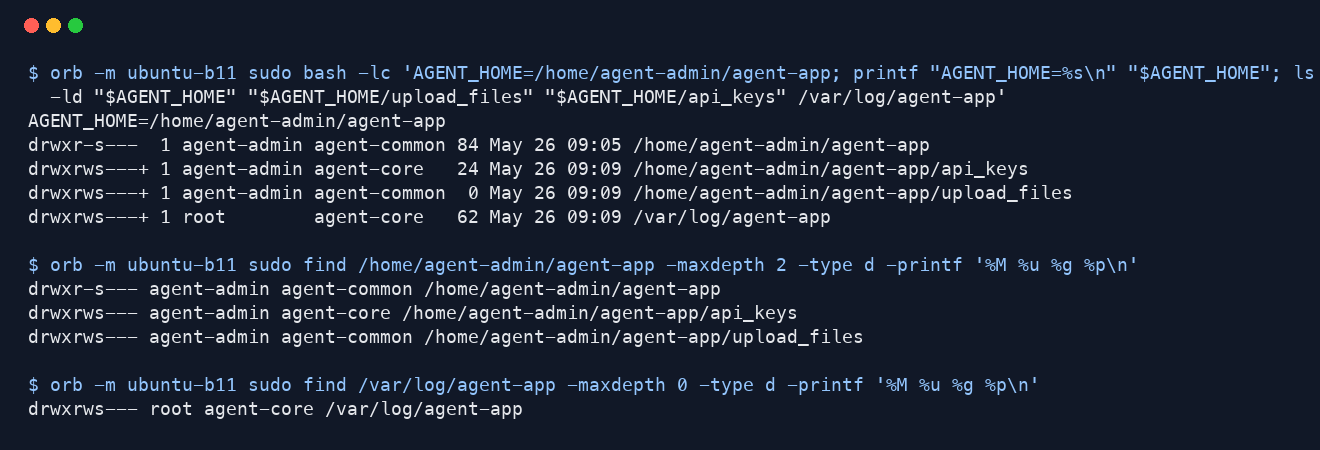
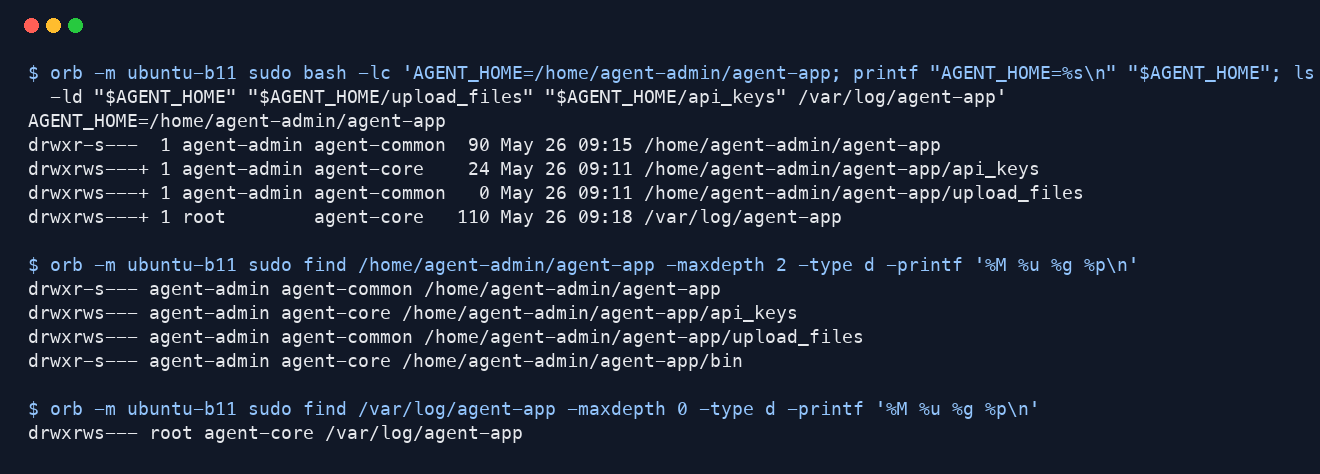
Add monitor script and log rotation evidence

Changed region(s): [[0.0, 0.1244, 0.9939, 0.4978], [0.0, 0.5289, 0.8697, 0.7778], [0.0, 0.84, 0.7765, 0.9333]]

diff --git a/tools/capture_terminal_evidence.py b/tools/capture_terminal_evidence.py
@@ -522,6 +522,119 @@ GROUPS = [
             ),
         ],
     ),
+    (
+        "12_monitor_file_policy_check",
+        [
+            (
+                "orb -m ubuntu-b11 sudo ls -ld /home/agent-admin/agent-app/bin /home/agent-admin/agent-app/bin/monitor.sh",
+                [
+                    "orb",
+                    "-m",
+                    "ubuntu-b11",
+                    "sudo",
+                    "ls",
+                    "-ld",
+                    "/home/agent-admin/agent-app/bin",
+                    "/home/agent-admin/agent-app/bin/monitor.sh",
+                ],
+            ),
+            (
+                "orb -m ubuntu-b11 sudo -u agent-admin test -x /home/agent-admin/agent-app/bin/monitor.sh && echo 'agent-admin can execute monitor.sh'",
+                [
+                    "orb",
+                    "-m",
+                    "ubuntu-b11",
+                    "bash",
+                    "-lc",
+                    "sudo -u agent-admin test -x /home/agent-admin/agent-app/bin/monitor.sh && echo 'agent-admin can execute monitor.sh'",
+                ],
+            ),
+            (
+                "orb -m ubuntu-b11 sudo sed -n '1,45p' /home/agent-admin/agent-app/bin/monitor.sh",
+                [
+                    "orb",
+                    "-m",
+                    "ubuntu-b11",
+                    "sudo",
+                    "sed",
+                    "-n",
+                    "1,45p",
+                    "/home/agent-admin/agent-app/bin/monitor.sh",
+                ],
+            ),
+        ],
+    ),
+    (
+        "13_monitor_execution_check",
+        [
+            (
+                "orb -m ubuntu-b11 sudo -u agent-admin bash -lc '/home/agent-admin/agent-app/bin/monitor.sh'",
+                [
+                    "orb",
+                    "-m",
+                    "ubuntu-b11",
+                    "sudo",
+                    "-u",
+                    "agent-admin",
+                    "bash",
+                    "-lc",
+                    "/home/agent-admin/agent-app/bin/monitor.sh",
+                ],
+            ),
+            (
+                "orb -m ubuntu-b11 sudo tail -n 5 /var/log/agent-app/monitor.log",
+                ["orb", "-m", "ubuntu-b11", "sudo", "tail", "-n", "5", "/var/log/agent-app/monitor.log"],
+            ),
+        ],
+    ),
+    (
+        "14_monitor_logrotate_check",
+        [
+            (
+                "orb -m ubuntu-b11 sudo cat /etc/logrotate.d/agent-app-monitor",
+                ["orb", "-m", "ubuntu-b11", "sudo", "cat", "/etc/logrotate.d/agent-app-monitor"],
+            ),
+            (
+                "orb -m ubuntu-b11 sudo -u agent-admin bash -lc 'for i in 1 2; do /home/agent-admin/agent-app/bin/monitor.sh >/dev/null; done; last=$(tail -n 1 \"$AGENT_LOG_DIR/monitor.log\"); yes \"$last\" | head -n 180000 >> \"$AGENT_LOG_DIR/monitor.log\"; ls -lh \"$AGENT_LOG_DIR\"/monitor.log*'",
+                [
+                    "orb",
+                    "-m",
+                    "ubuntu-b11",
+                    "sudo",
+                    "-u",
+                    "agent-admin",
+                    "bash",
+                    "-lc",
+                    'for i in 1 2; do /home/agent-admin/agent-app/bin/monitor.sh >/dev/null; done; last=$(tail -n 1 "$AGENT_LOG_DIR/monitor.log"); yes "$last" | head -n 180000 >> "$AGENT_LOG_DIR/monitor.log"; ls -lh "$AGENT_LOG_DIR"/monitor.log*',
+                ],
+            ),
+            (
+                "orb -m ubuntu-b11 bash -lc \"sudo logrotate -v /etc/logrotate.d/agent-app-monitor 2>&1 | grep -E 'rotating pattern|log needs rotating|copying|truncating'\"",
+                [
+                    "orb",
+                    "-m",
+                    "ubuntu-b11",
+                    "bash",
+                    "-lc",
+                    "sudo logrotate -v /etc/logrotate.d/agent-app-monitor 2>&1 | grep -E 'rotating pattern|log needs rotating|copying|truncating'",
+                ],
+            ),
+            (
+                "orb -m ubuntu-b11 sudo -u agent-admin bash -lc '/home/agent-admin/agent-app/bin/monitor.sh >/dev/null; ls -lh \"$AGENT_LOG_DIR\"/monitor.log*'",
+                [
+                    "orb",
+                    "-m",
+                    "ubuntu-b11",
+                    "sudo",
+                    "-u",
+                    "agent-admin",
+                    "bash",
+                    "-lc",
+                    '/home/agent-admin/agent-app/bin/monitor.sh >/dev/null; ls -lh "$AGENT_LOG_DIR"/monitor.log*',
+                ],
+            ),
+        ],
+    ),
 ]
 
 

diff --git a/README.md b/README.md
@@ -418,3 +418,75 @@ Boot Sequence, 일반 계정 실행, `15034` 포트 LISTEN 확인:
 원문 증거 로그:
 
 - `evidence/11_agent_run_success_check.txt`
+
+### 4.4 시스템 관제 자동화 스크립트(monitor.sh) 구현
+
+#### 4.4.1 수행 내역
+
+1. 제출용 소스 파일로 저장소 루트에 `monitor.sh`를 작성하였다.
+2. 스크립트 상단에서 `/etc/profile.d/agent-app.sh`를 읽어 cron 환경에서도 `AGENT_HOME`, `AGENT_PORT`, `AGENT_LOG_DIR` 값을 사용할 수 있게 하였다.
+3. 프로세스 Health Check는 `pgrep -u agent-admin -x agent-app`으로 구현하였다.
+4. 앱 프로세스가 없으면 `[ERROR] agent-app process is not running`을 출력하고 `exit 1`로 종료하도록 하였다.
+5. 포트 Health Check는 `ss -tuln`으로 TCP `15034` LISTEN 상태를 확인하도록 구현하였다.
+6. 포트가 LISTEN 상태가 아니면 `[ERROR] TCP 15034 is not LISTEN`을 출력하고 `exit 1`로 종료하도록 하였다.
+7. 방화벽 상태 점검은 UFW 설정 파일의 `ENABLED=yes`를 확인하는 방식으로 구현하였다.
+8. 방화벽이 비활성 상태이면 `[WARNING]`만 출력하고 스크립트는 계속 실행되도록 하였다.
+9. CPU 사용률은 `/proc/stat`을 두 번 읽어 전체 CPU 사용 비율을 계산하도록 구현하였다.
+10. 메모리 사용률은 `free` 명령으로 계산하였다.
+11. 루트 파티션 디스크 사용률은 `df /` 명령으로 수집하였다.
+12. CPU `20%`, MEM `10%`, DISK `80%` 초과 시 `[WARNING]`을 출력하도록 구현하였다.
+13. 수집 결과는 `/var/log/agent-app/monitor.log`에 `[YYYY-MM-DD HH:MM:SS] PID:... CPU:..% MEM:..% DISK_USED:..%` 형식으로 누적 기록하도록 하였다.
+14. `$AGENT_HOME/bin` 디렉터리를 생성하였다.
+15. `monitor.sh`를 `$AGENT_HOME/bin/monitor.sh`에 설치하였다.
+16. 소유자는 `agent-dev`, 그룹은 `agent-core`, 권한은 `750`으로 설정하였다.
+17. `agent-admin`이 `agent-core`에 포함되어 있으므로 cron 실행 계정 기준에서도 실행 가능한지 확인하였다.
+18. `agent-admin` 계정으로 `monitor.sh`를 직접 실행하여 Health Check, 자원 수집, 로그 기록이 정상 동작하는지 확인하였다.
+19. `tail -n 5 /var/log/agent-app/monitor.log`로 로그가 누적되는 것을 확인하였다.
+20. logrotate 설정 파일 `config/agent-app-monitor.logrotate`를 작성하였다.
+21. 해당 설정을 `/etc/logrotate.d/agent-app-monitor`에 배포하였다.
+22. `size 10M`, `rotate 10`, `copytruncate` 설정으로 `monitor.log`가 10MB를 넘으면 최대 10개까지 보관되도록 하였다.
+23. `monitor.sh`를 반복 실행한 뒤 같은 로그 포맷의 샘플 라인을 추가하여 `monitor.log`를 10MB 이상으로 크게 만들었다.
+24. `logrotate -v /etc/logrotate.d/agent-app-monitor`를 실행하여 `monitor.log.1`로 회전되고 기존 `monitor.log`가 비워지는 것을 확인하였다.
+
+#### 4.4.2 핵심 내용
+
+이번 스크립트에서 가장 핵심이라고 생각한 부분은 Health Check와 경고 항목을 분리한 것이다. 프로세스와 포트는 앱이 정상 서비스 중인지 판단하는 필수 조건이므로 실패하면 `exit 1`로 종료하게 하였고, 방화벽 상태나 CPU/MEM/DISK 임계값은 운영자가 참고해야 하는 상태 정보이므로 `[WARNING]`만 출력하고 계속 로그를 남기도록 하였다.
+
+#### 4.4.3 확인 결과
+
+- 파일 경로: `/home/agent-admin/agent-app/bin/monitor.sh`
+- 소유자/그룹: `agent-dev:agent-core`
+- 권한: `750` (`rwxr-x---`)
+- cron 실행 예정 계정: `agent-admin`
+- `agent-admin` 실행 권한: 확인 완료
+- 프로세스 Health Check: `agent-app` 확인 완료
+- 포트 Health Check: `15034` LISTEN 확인 완료
+- 방화벽 상태 점검: UFW `[OK]`
+- 자원 수집: CPU, MEM, DISK_USED 출력 확인
+- 로그 파일: `/var/log/agent-app/monitor.log`
+- 로그 포맷: `[YYYY-MM-DD HH:MM:SS] PID:... CPU:..% MEM:..% DISK_USED:..%`
+- 로그 용량 관리: logrotate로 `10MB`, `10개` 보관 설정 및 회전 확인
+
+#### 4.4.4 로그 파일 용량 관리
+
+로그 용량 관리는 스크립트 안에서 직접 구현하지 않고, 리눅스에서 일반적으로 사용하는 `logrotate`를 사용하였다. 설정 파일에는 `size 10M`과 `rotate 10`을 넣어 `monitor.log`가 10MB 이상이면 회전하고 최대 10개 파일만 유지하도록 하였다. 실제 검증에서는 `monitor.sh`를 반복 실행한 뒤 로그 파일을 10MB 이상으로 크게 만들고, `logrotate -v` 실행 결과 `monitor.log.1`이 생성되고 기존 `monitor.log`가 다시 작아지는 것을 확인하였다.
+
+#### 4.4.5 증거 자료
+
+`monitor.sh` 파일 위치, 소유자, 그룹, 권한 및 주요 코드 확인:
+
+![monitor.sh 파일 정책 확인](screenshots/12_monitor_file_policy_check.png)
+
+`monitor.sh` 실행 결과 및 `monitor.log` 누적 확인:
+
+![monitor.sh 실행 결과 확인](screenshots/13_monitor_execution_check.png)
+
+logrotate 설정, 10MB 초과 로그 생성, 회전 결과 확인:
+
+![monitor.log logrotate 확인](screenshots/14_monitor_logrotate_check.png)
+
+원문 증거 로그:
+
+- `evidence/12_monitor_file_policy_check.txt`
+- `evidence/13_monitor_execution_check.txt`
+- `evidence/14_monitor_logrotate_check.txt`